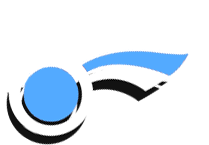
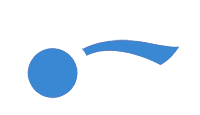
update couleurs

Changed region(s): [[0.09, 0.3391, 0.9, 0.887], [0.03, 0.6261, 0.42, 1.0]]

diff --git a/public/style2.css b/public/style2.css
@@ -1,5 +1,5 @@
 .blue{
-	color:rgb(83,170,255);
+	color:rgb(47, 116, 184);
 }
 body{
 	font-family: 'Raleway', sans-serif;
@@ -56,7 +56,7 @@ iframe {
 	overflow:hidden;
 }
 .user:hover{
-	background-color: rgb(83,170,255);
+	background-color: rgb(47, 116, 184);
 	cursor: pointer;
 }
 .titre-section {
@@ -192,7 +192,7 @@ a{
 .bouton {
 	display: inline-block;
 	float: left;
-	background: rgb(83,170,255);
+	background: rgb(47, 116, 184);
 	padding: 0.4em;
 	font-family: 'Roboto';
 	font-size: 0.9em;
@@ -285,7 +285,7 @@ a{
 }
 .liste_recherche:hover{
 	cursor: pointer;
-	background: rgb(83,170,255);
+	background: rgb(47, 116, 184);
 }
 
 footer{
@@ -346,7 +346,7 @@ footer em{
 	transition: 250ms all ease;
 }
 .room:hover{
-	background: rgb(83,170,255);
+	background: rgb(47, 116, 184);
 	cursor: pointer;
 }
 .room-active{

diff --git a/public/javascript/jquery.js b/public/javascript/jquery.js
@@ -1,5 +1,4 @@
 
-            // Connexion à socket.io
             var timer;
             var rage = 0; 
             var blur;
@@ -7,7 +6,7 @@
             document.onblur = window.onblur;
             document.focus = window.focus;
             
-            // Ajoute un message dans la page
+
           
             function actualise_titre(content){
             nouveau = true;
